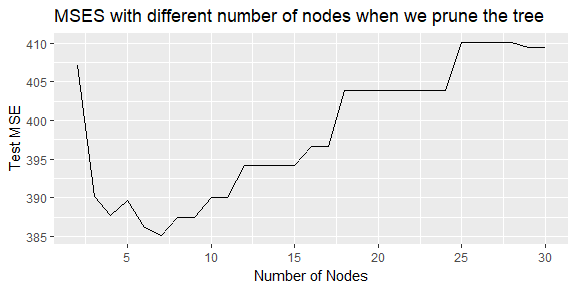
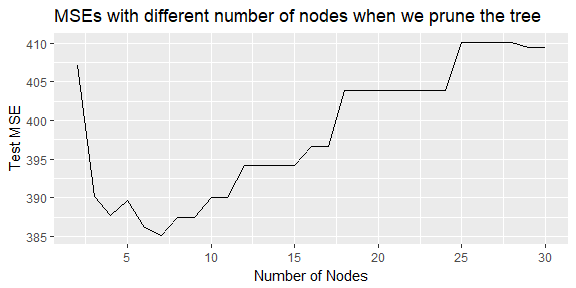
final

Changed region(s): [[0.1562, 0.0312, 0.9688, 0.0938]]

diff --git a/Students/HanK/PS6/PS_6.md b/Students/HanK/PS6/PS_6.md
@@ -90,14 +90,12 @@ data.frame(num_nodes = 2:30, mses = mses) %>%
   ggplot(aes(x = num_nodes, y = mses)) +
   geom_line() + 
   scale_x_continuous(breaks =  c(5, 10, 15, 20, 25, 30)) +
-  labs(title = "MSES with different number of nodes when we prune the tree",
+  labs(title = "MSEs with different number of nodes when we prune the tree",
        x = "Number of Nodes",
        y = "Test MSE")
 ```
 
 ![](PS_6_files/figure-markdown_github-ascii_identifiers/unnamed-chunk-7-1.png)
-
-This graph shows that both too much and too less nodes will cause high test mse.
 
 ``` r
 plot(opt_tree)
@@ -107,7 +105,7 @@ title(main = "The optimal pruned tree")
 
 ![](PS_6_files/figure-markdown_github-ascii_identifiers/unnamed-chunk-8-1.png)
 
-The optimal pruning method produces a medium tree, all features (dem, rep, age, educ and female) make effects in the model. Dem, rep (party affiliation) and age have the highest importance. Besides, those who are neither rep nor dem would not heavily influenced by their demographic features, but both dem and rep would be influenced by some or all demographic features. The largest predicted feeling thermometer is 77.88 from democrats older than 53.5 and the smallest feeling thermometer is 33.18 from poor-educated female republicans older than 43.5.
+This graph shows that both too much and too less nodes will cause high test mse. 7 nodes are the optimal level of tree complexity. The optimal pruning method produces a medium tree, all features (dem, rep, age, educ and female) make effects in the model. Dem, rep (party affiliation) and age have the highest importance. Besides, those who are neither rep nor dem would not heavily influenced by their demographic features, but both dem and rep would be influenced by some or all demographic features. The largest predicted feeling thermometer is 77.88 from democrats older than 53.5 and the smallest feeling thermometer is 33.18 from poor-educated female republicans older than 43.5.
 
 ``` r
 kable(cbind(mse2, opt_mse),
@@ -213,4 +211,4 @@ ggplot(importances, aes(features, IncNodePurity)) +
 
 The first two mses are very similar (the former is slightly better than the latter) and the final one is obviously larger than them. This is because we only have 5 features so that the optimal parameter for random forest should be less than 2. If we choose too many features, such as m = 3, some features, which might cause overfitting problem, are still frequently selected and serve as the important features. In other words, other good features' importances are suppressed.
 
-The graph of feature importance provide the evidence of this reasoning. When m = 1 or 2, dem and rep are very important, and age, educ and female are unimportant. However, when m = 3, the results of importance are very similar to those in the bagging model: the importance of age is much larger than dem and rep, and educ is also moderately important. These results demonstrate age (and sometimes probabily educ) is not a good predictor but has enough importance in a single tree. In this case, when we set a small m, a large percent of trees in random forest will not be based on important but bad features and thus has a better prediction.
+The graph of feature importance provides the evidence of this reasoning. When m = 1 or 2, dem and rep are very important, and age, educ and female are unimportant. However, when m = 3, the results of importance are very similar to those in the bagging model: the importance of age is much larger than dem and rep, and educ is also moderately important. These results demonstrate age (and sometimes probabily educ) is not a good predictor but has enough importance in a single tree. In this case, when we set a small m, a large percent of trees in random forest will not be based on important but bad features and thus has a better prediction.
